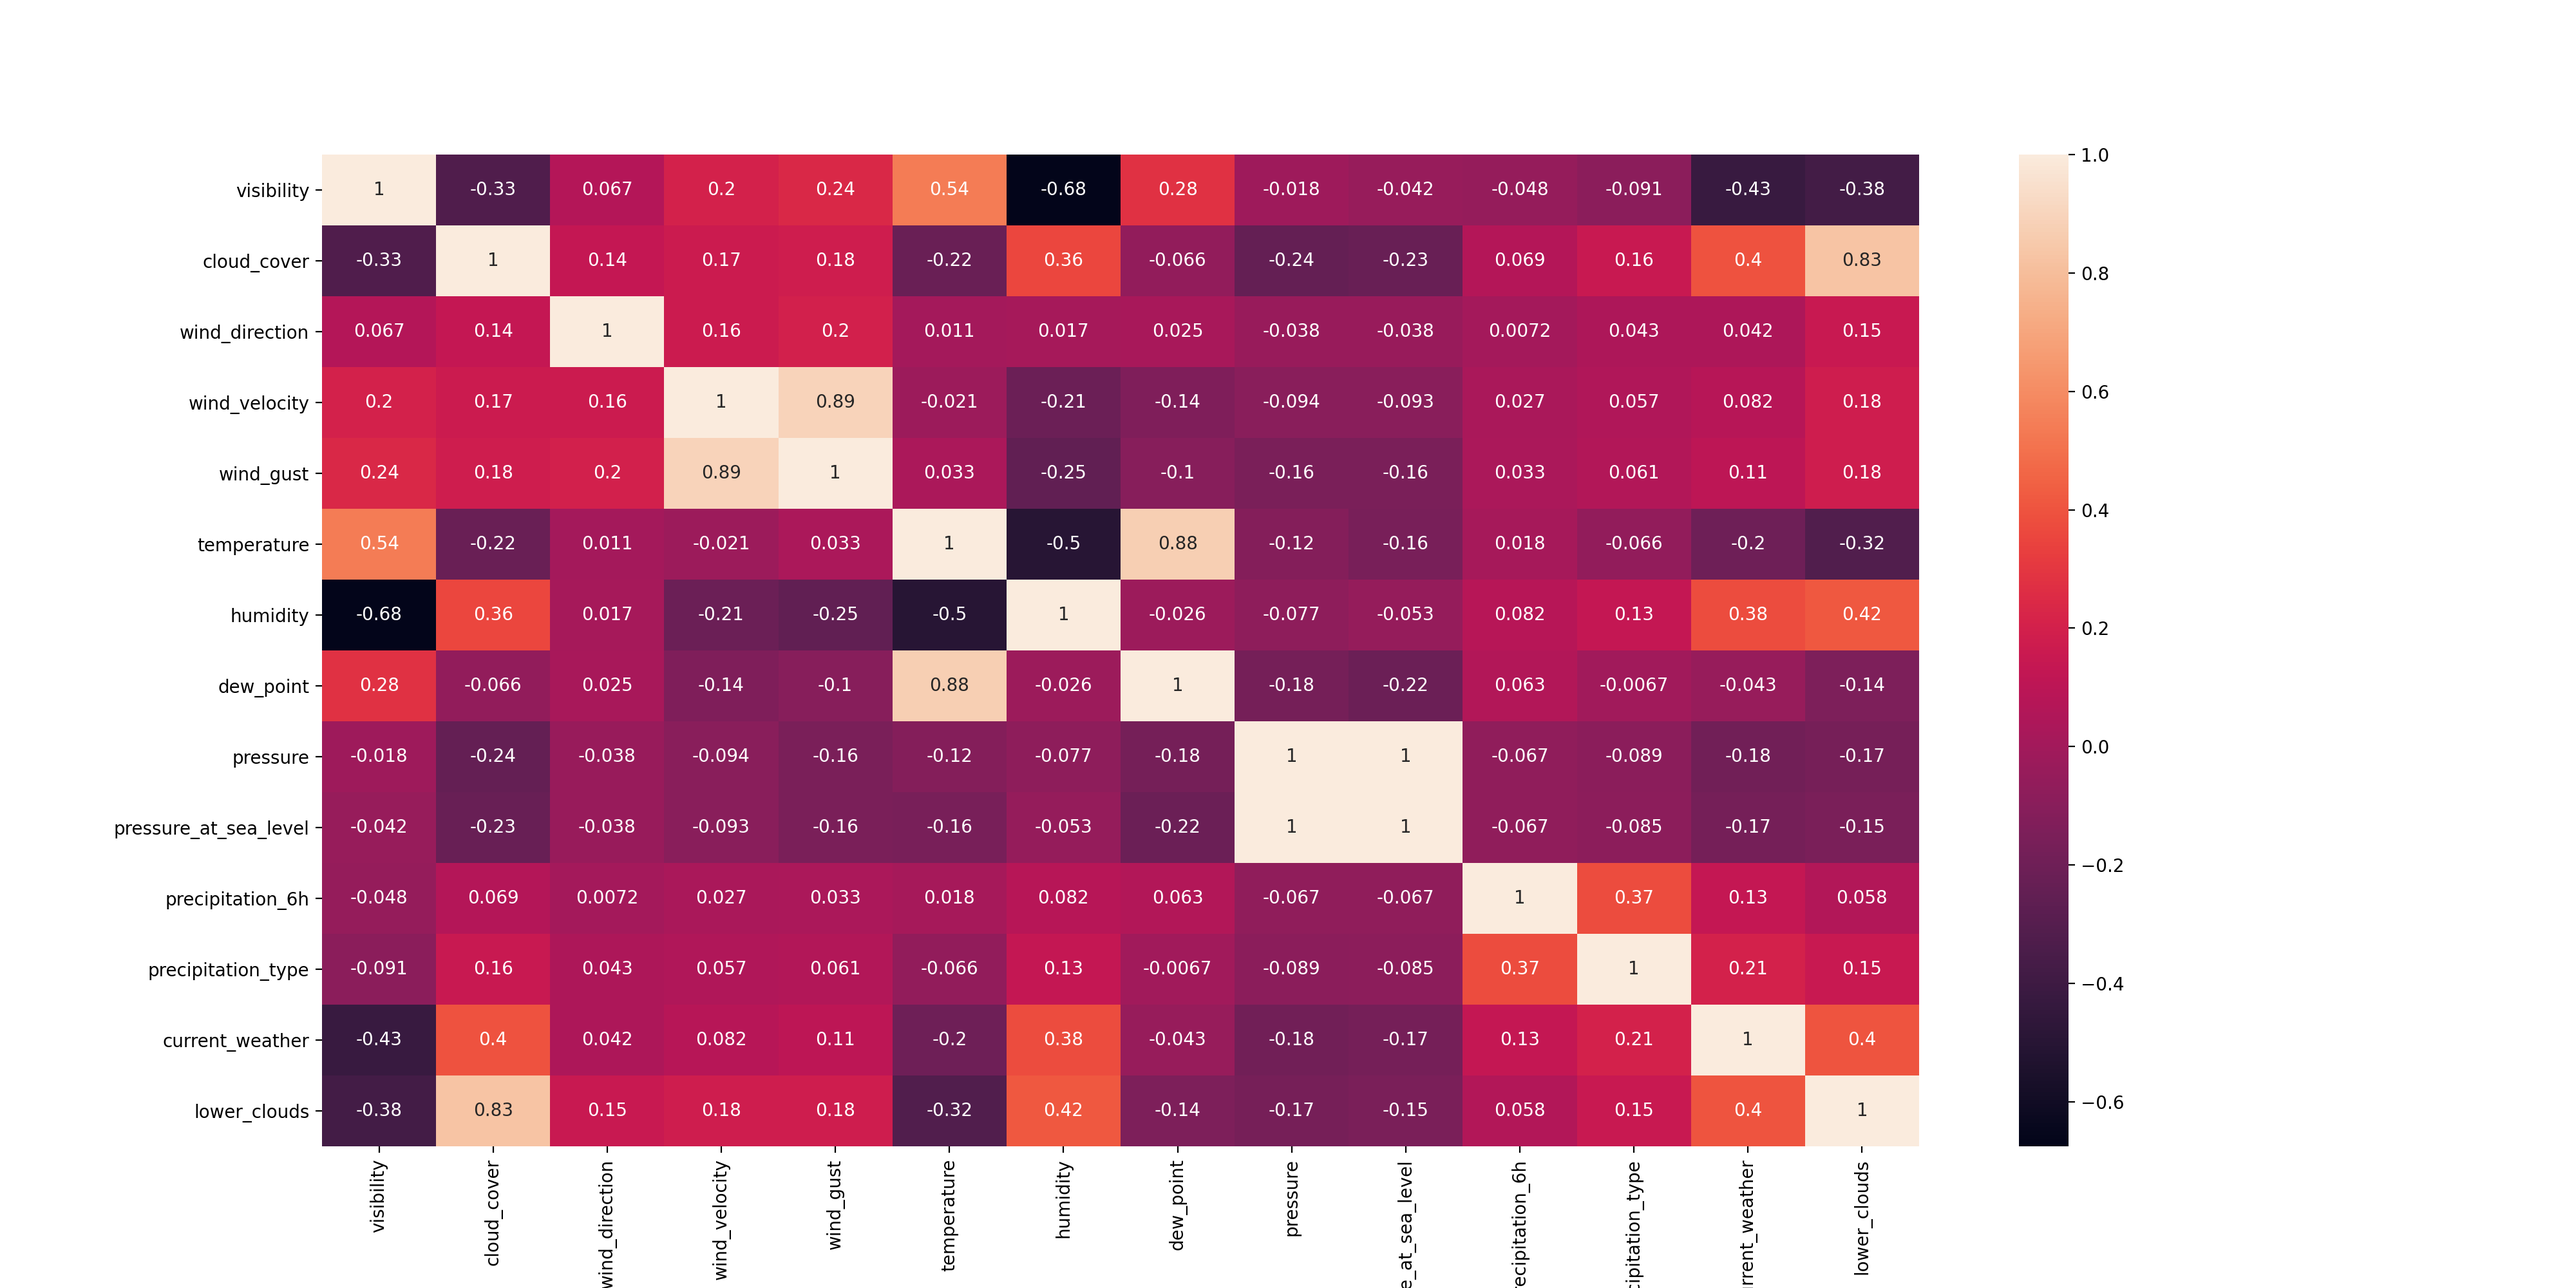
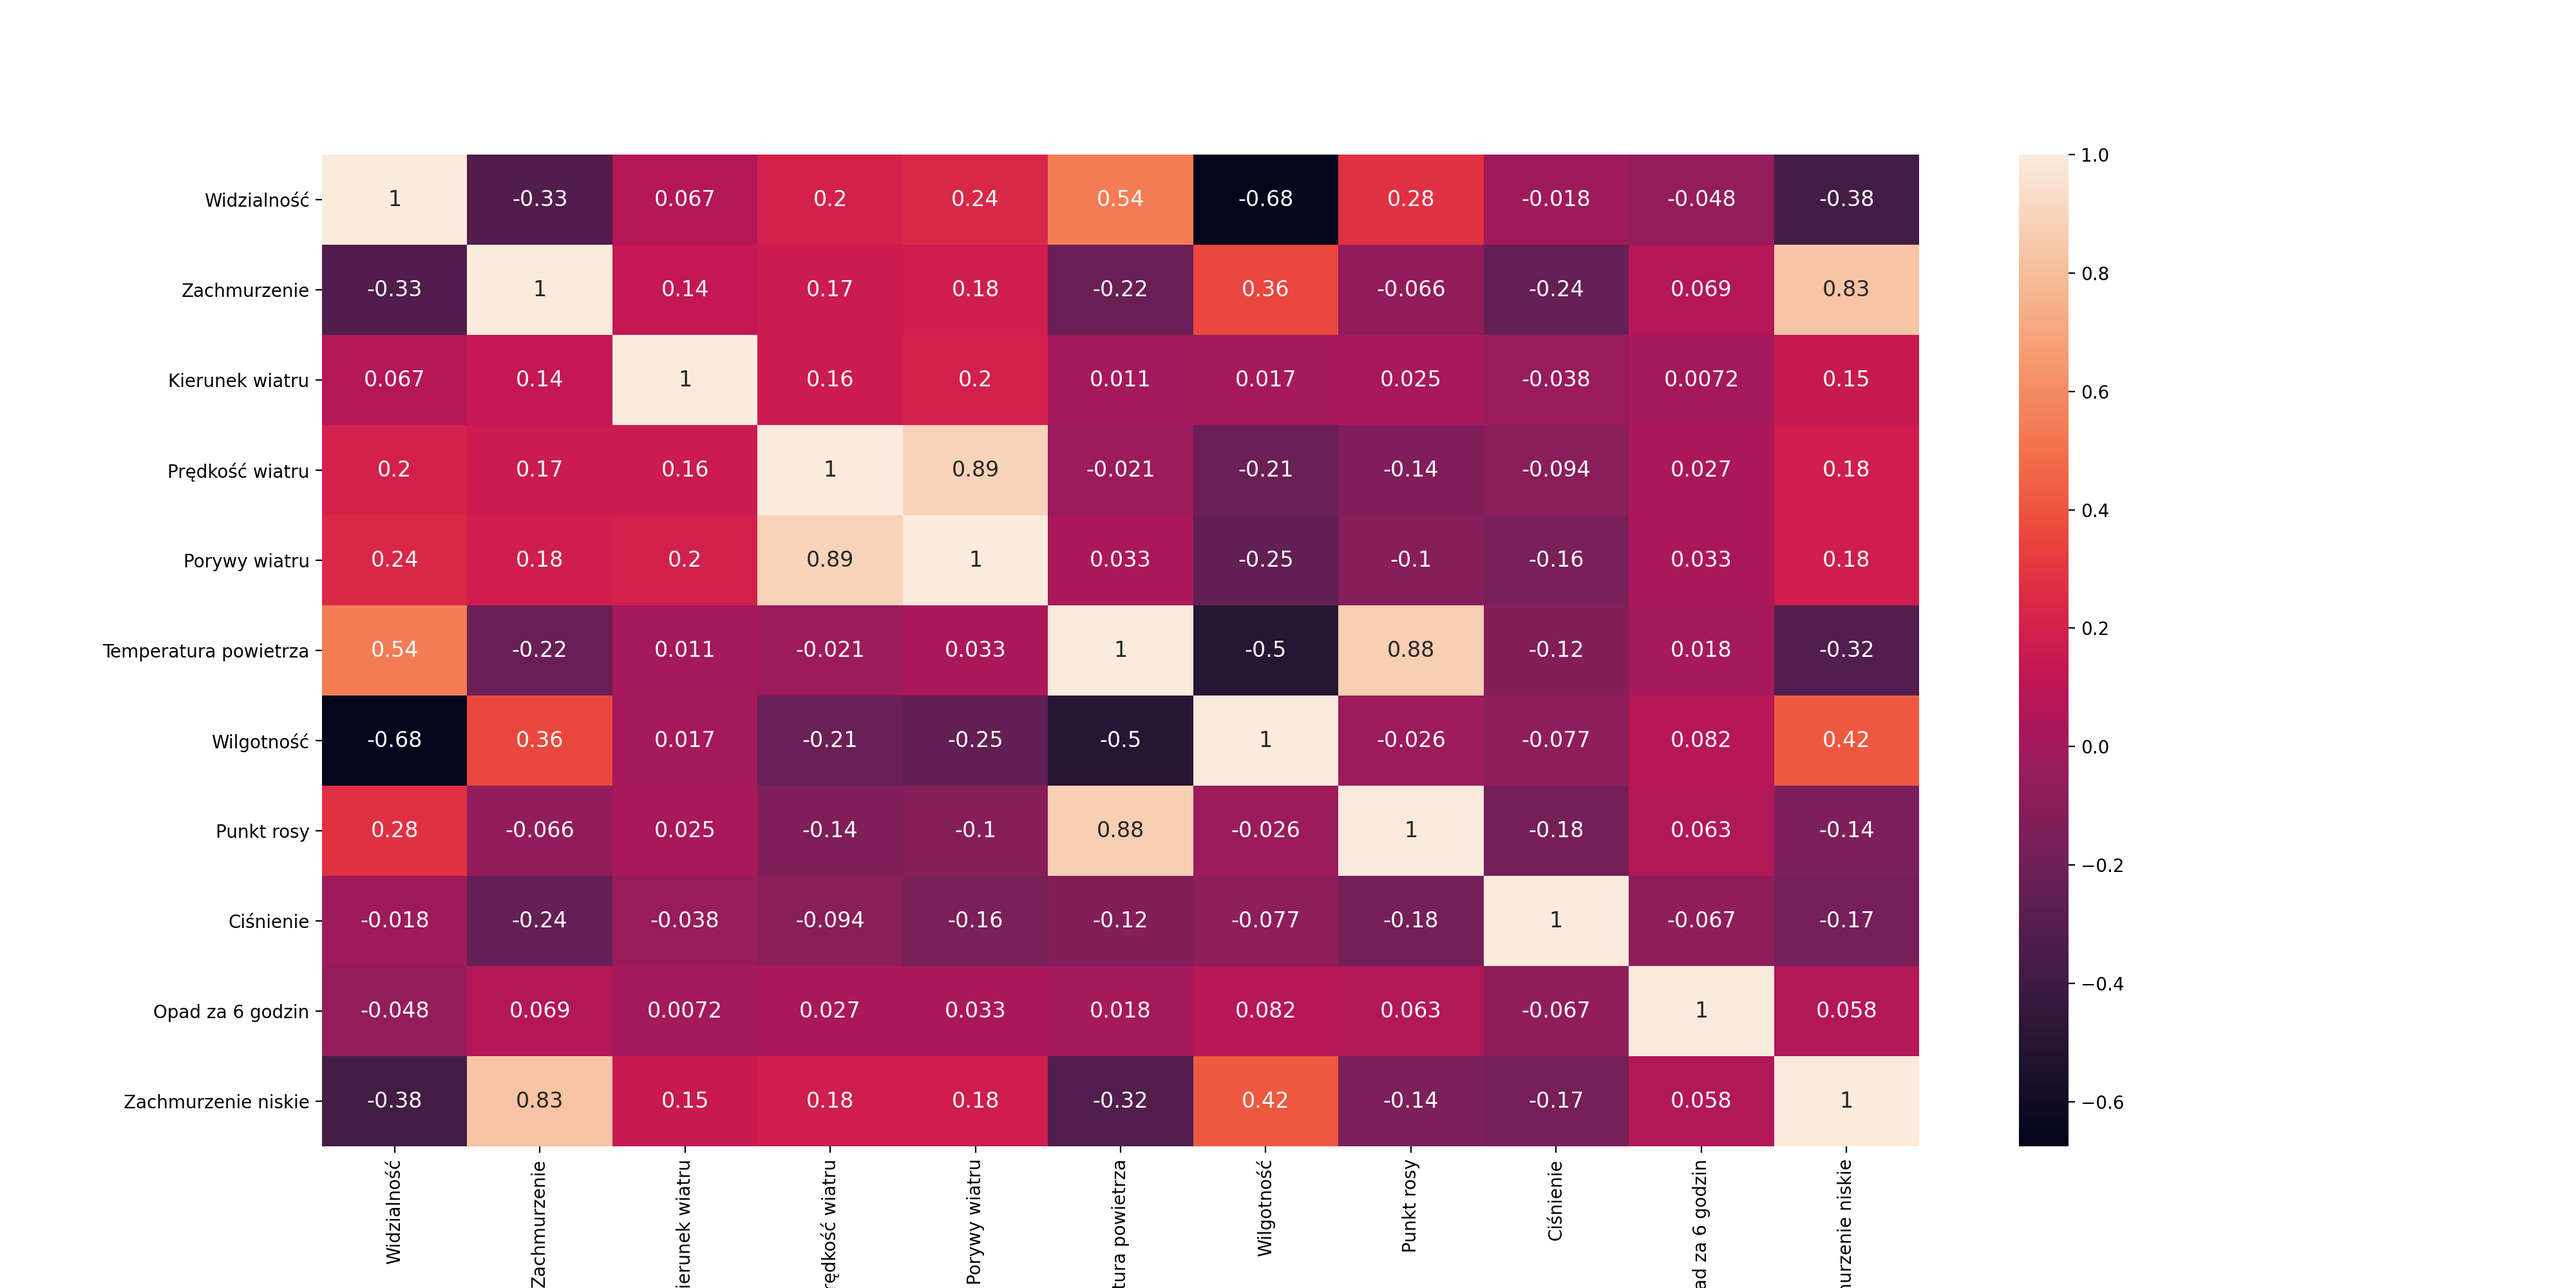
Improve exploration, add GFS to analysis

diff --git a/src/exploration/exploration.py b/src/exploration/exploration.py
@@ -7,11 +7,12 @@ import numpy as np
 import pandas as pd
 import seaborn as sns
 from tqdm import tqdm
+from statsmodels.tsa.stattools import adfuller
 
 from gfs_archive_0_25.gfs_processor.own_logger import get_logger
 from gfs_archive_0_25.utils import prep_zeros_if_needed
 from wind_forecast.consts import SYNOP_DATASETS_DIRECTORY
-from synop.consts import SYNOP_FEATURES
+from synop.consts import SYNOP_TRAIN_FEATURES
 from wind_forecast.preprocess.synop.synop_preprocess import prepare_synop_dataset
 from wind_forecast.util.gfs_util import GFS_DATASET_DIR, get_available_numpy_files
 
@@ -143,9 +144,9 @@ def explore_gfs_correlations():
 def explore_synop_correlations(data: pd.DataFrame, features: (int, str), localisation_name: str):
     if os.path.exists(os.path.join(Path(__file__).parent, f"synop_{localisation_name}_heatmap.png")):
         return
-    data = data[list(list(zip(*features))[1])]
+    data = data[list(list(zip(*features))[2])]
     plt.figure(figsize=(20, 10))
-    sns.heatmap(data.corr(), annot=True)
+    sns.heatmap(data.corr(), annot=True, annot_kws={"fontsize":12})
     plt.savefig(os.path.join(Path(__file__).parent, f"synop_{localisation_name}_heatmap.png"), dpi=200)
     plt.show()
     plt.close()
@@ -155,24 +156,48 @@ def explore_synop_patterns(data: pd.DataFrame, features: (int, str), localisatio
     features_with_nans = []
     for feature in features:
         plot_dir = os.path.join('plots-synop', localisation_name, feature[1])
-        values = data[feature[1]].to_numpy()
+        values = data[feature[2]].to_numpy()
         if np.isnan(np.sum(values)):
-            features_with_nans.append(feature[1])
-        sns.boxplot(x=values).set_title(f"{feature[1]}")
+            features_with_nans.append(feature[2])
+        sns.boxplot(x=values).set_title(f"{feature[2]}")
         os.makedirs(plot_dir, exist_ok=True)
         plt.savefig(os.path.join(plot_dir, 'plot-box.png'))
         plt.close()
-        sns.lineplot(data=data[['date', feature[1]]], x='date', y=feature[1])
+
+        stationarity_test = adfuller(values)
+        print(f"Stationarity test for {feature[1]}")
+        print('ADF Statistic: %f' % stationarity_test[0])
+        print('p-value: %f' % stationarity_test[1])
+        print('Critical Values:')
+        for key, value in stationarity_test[4].items():
+            print('\t%s: %.3f' % (key, value))
+
+        _, ax = plt.subplots(figsize=(30, 15))
+        ax.set_xlabel('Data', fontsize=22)
+        ax.set_ylabel(feature[2], fontsize=22)
+        ax.tick_params(axis='both', which='major', labelsize=20)
+        sns.lineplot(ax=ax, data=data[['date', feature[2]]], x='date', y=feature[2])
         os.makedirs(plot_dir, exist_ok=True)
         plt.savefig(os.path.join(plot_dir, 'plot-line.png'))
         plt.close()
+
+        data2 = data.iloc[2000:2600]
+        _, ax = plt.subplots(figsize=(30, 15))
+        ax.set_xlabel('Data', fontsize=22)
+        ax.set_ylabel(feature[2], fontsize=22)
+        ax.tick_params(axis='both', which='major', labelsize=20)
+        sns.lineplot(ax=ax, data=data2[['date', feature[2]]], x='date', y=feature[2])
+        os.makedirs(plot_dir, exist_ok=True)
+        plt.savefig(os.path.join(plot_dir, 'plot-line2.png'))
+        plt.close()
+
     if len(features_with_nans):
         logger = get_logger(os.path.join("explore_results", 'logs.log'))
         logger.info(f"Nans in features:\n {[f'{feature}, ' for feature in features_with_nans]}")
 
 
 def explore_synop(synop_file):
-    relevant_features = [f for f in SYNOP_FEATURES if f[1] not in ['year', 'month', 'day', 'hour']]
+    relevant_features = [f for f in SYNOP_TRAIN_FEATURES if f[1] not in ['year', 'month', 'day', 'hour']]
     if not os.path.exists(synop_file):
         raise Exception(f"CSV file with synop data does not exist at path {synop_file}.")
 
@@ -180,6 +205,7 @@ def explore_synop(synop_file):
                                  dataset_dir=SYNOP_DATASETS_DIRECTORY, from_year=2016, to_year=2022)
 
     data["date"] = pd.to_datetime(data[['year', 'month', 'day', 'hour']])
+    data = data.rename(columns=dict(zip([f[1] for f in SYNOP_TRAIN_FEATURES], [f[2] for f in SYNOP_TRAIN_FEATURES])))
     explore_synop_correlations(data, relevant_features, os.path.basename(synop_file))
     explore_synop_patterns(data, relevant_features, os.path.basename(synop_file))
 

diff --git a/src/wind_forecast/systems/S2SGFSRegressor.py b/src/wind_forecast/systems/S2SGFSRegressor.py
@@ -61,11 +61,11 @@ class S2SGFSRegressor(BaseS2SRegressor):
         self.test_mase(outputs.squeeze(), targets.float().squeeze(), synop_past_targets)
 
         return {BatchKeys.SYNOP_FUTURE_Y.value: targets,
-                'output': outputs,
+                BatchKeys.PREDICTIONS.value: outputs.squeeze(),
                 BatchKeys.SYNOP_PAST_Y.value: synop_past_targets[:, :],
                 BatchKeys.DATES_PAST.value: dates_inputs,
                 BatchKeys.DATES_FUTURE.value: dates_targets,
-                BatchKeys.GFS_FUTURE_Y.value: outputs}
+                BatchKeys.GFS_FUTURE_Y.value: outputs.squeeze()}
 
     def test_epoch_end(self, outputs: List[Any]) -> None:
         """
@@ -78,34 +78,12 @@ class S2SGFSRegressor(BaseS2SRegressor):
         """
         step = self.current_epoch + 1 if not self.trainer.sanity_checking else self.current_epoch  # type: ignore
 
-        metrics = {
-            'epoch': float(step),
-            'test_rmse': math.sqrt(float(self.test_mse.compute().item())),
-            'test_mae': float(self.test_mae.compute().item()),
-            'test_mase': float(self.test_mase.compute())
-        }
+        metrics_and_plot_results = self.get_metrics_and_plot_results(step, outputs)
 
         self.test_mse.reset()
         self.test_mae.reset()
         self.test_mase.reset()
 
-        # save results to view
-        labels = [item for sublist in [x[BatchKeys.SYNOP_FUTURE_Y.value] for x in outputs] for item in sublist]
+        self.test_results = metrics_and_plot_results
 
-        out = [item for sublist in [x['output'] for x in outputs] for item in sublist]
-
-        inputs = [item for sublist in [x[BatchKeys.SYNOP_PAST_Y.value] for x in outputs] for item in sublist]
-
-        gfs_targets = [item for sublist in [x[BatchKeys.GFS_FUTURE_Y.value] for x in outputs] for item in sublist]
-
-        inputs_dates = [item for sublist in [x[BatchKeys.DATES_PAST.value] for x in outputs] for item in sublist]
-        labels_dates = [item for sublist in [x[BatchKeys.DATES_FUTURE.value] for x in outputs] for item in sublist]
-
-        self.test_results = {'labels': copy.deepcopy(labels),
-                             'output': copy.deepcopy(out),
-                             'inputs': copy.deepcopy(inputs),
-                             'inputs_dates': copy.deepcopy(inputs_dates),
-                             'targets_dates': copy.deepcopy(labels_dates),
-                             'gfs_targets': copy.deepcopy(gfs_targets)}
-
-        self.logger.log_metrics(metrics, step=step)
+        self.logger.log_metrics(metrics_and_plot_results, step=step)

diff --git a/src/synop/consts.py b/src/synop/consts.py
@@ -1,23 +1,23 @@
-STATION_CODE = (0, "station_code")
-STATION_NAME = (1, "station_name")
-YEAR = (2, 'year')
-MONTH = (3, 'month')
-DAY = (4, 'day')
-HOUR = (5, 'hour')
-VISIBILITY = (17, "visibility")
-CLOUD_COVER = (21, "cloud_cover")
-DIRECTION_COLUMN = (23, 'wind_direction')
-VELOCITY_COLUMN = (25, 'wind_velocity')
-GUST_COLUMN = (27, 'wind_gust')
-TEMPERATURE = (29, 'temperature')
-HUMIDITY = (37, "humidity")
-DEW_POINT = (39, "dew_point")
-PRESSURE = (41, 'pressure')
-PRESSURE_AT_SEA_LEVEL = (43, 'pressure_at_sea_level')
-PRECIPITATION_6H = (48, 'precipitation_6h')
-PRECIPITATION_TYPE = (50, 'precipitation_type')
-CURRENT_WEATHER = (52, 'current_weather')
-LOWER_CLOUDS = (54, 'lower_clouds')
+STATION_CODE = (0, "station_code", "Kod stacji")
+STATION_NAME = (1, "station_name", "Nazwa stacji")
+YEAR = (2, 'year', "Rok")
+MONTH = (3, 'month', "Miesiąc")
+DAY = (4, 'day', "Dzień")
+HOUR = (5, 'hour', "Godzina")
+VISIBILITY = (17, "visibility", "Widzialność")
+CLOUD_COVER = (21, "cloud_cover", "Zachmurzenie")
+DIRECTION_COLUMN = (23, 'wind_direction', "Kierunek wiatru")
+VELOCITY_COLUMN = (25, 'wind_velocity', "Prędkość wiatru")
+GUST_COLUMN = (27, 'wind_gust', "Porywy wiatru")
+TEMPERATURE = (29, 'temperature', "Temperatura powietrza")
+HUMIDITY = (37, "humidity", "Wilgotność")
+DEW_POINT = (39, "dew_point", "Punkt rosy")
+PRESSURE = (41, 'pressure', "Ciśnienie")
+PRESSURE_AT_SEA_LEVEL = (43, 'pressure_at_sea_level', "Ciśnienie na poziomie morza")
+PRECIPITATION_6H = (48, 'precipitation_6h', "Opad za 6 godzin")
+PRECIPITATION_TYPE = (50, 'precipitation_type', "Rodzaj opadu")
+CURRENT_WEATHER = (52, 'current_weather', "Pogoda (kod)")
+LOWER_CLOUDS = (54, 'lower_clouds', "Zachmurzenie niskie")
 # Auto station features
 AUTO_TEMPERATURE = ('B00300S', 'temperature')
 AUTO_TEMPERATURE_SURFACE = ('B00305A', 'temperature_surface')

diff --git a/src/wind_forecast/runs_analysis.py b/src/wind_forecast/runs_analysis.py
@@ -27,12 +27,12 @@ def run_analysis(config: Config):
         run_summaries.append(wandb_run.summary)
         run_configs.append(wandb_run.config)
 
-    plot_series_comparison(analysis_config.runs, run_summaries, run_configs, config)
+    plot_series_comparison(analysis_config.runs, run_summaries, config)
     plot_rmse_by_step_comparison(analysis_config.runs, run_summaries)
     plot_mase_by_step_comparison(analysis_config.runs, run_summaries)
 
 
-def plot_series_comparison(analysis_config_runs: List, run_summaries: List[Any], run_configs: List[Dict], config: Config):
+def plot_series_comparison(analysis_config_runs: List, run_summaries: List[Any], config: Config):
     truth_series = run_summaries[0]['plot_truth']
     all_dates = run_summaries[0]['plot_all_dates']
     prediction_dates = run_summaries[0]['plot_prediction_dates']

diff --git a/src/wind_forecast/models/decomposeable/Decomposeable.py b/src/wind_forecast/models/decomposeable/Decomposeable.py
@@ -22,6 +22,7 @@ class Decomposeable(LightningModule):
         raise NotImplementedError()
 
 
+# TODO - refactor it - this should be done in datamodule before normalization
 class EMDDecomposeable(Decomposeable):
     def __init__(self, trials: int) -> None:
         super().__init__()
